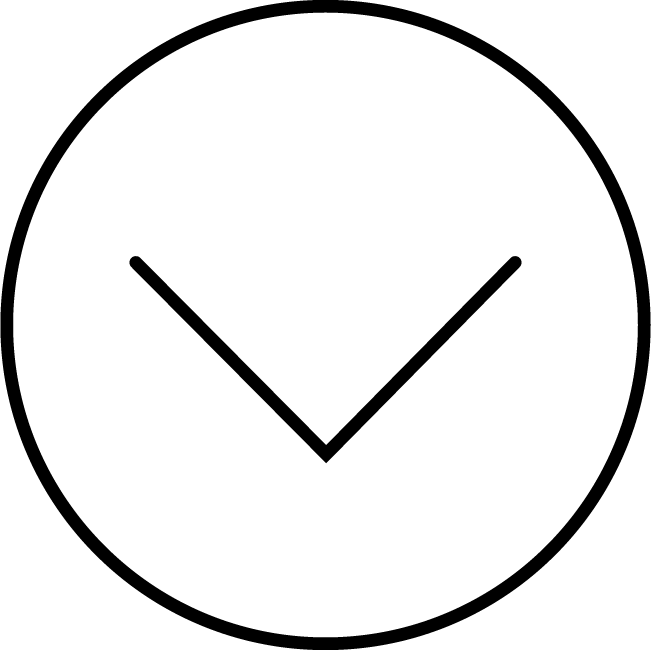
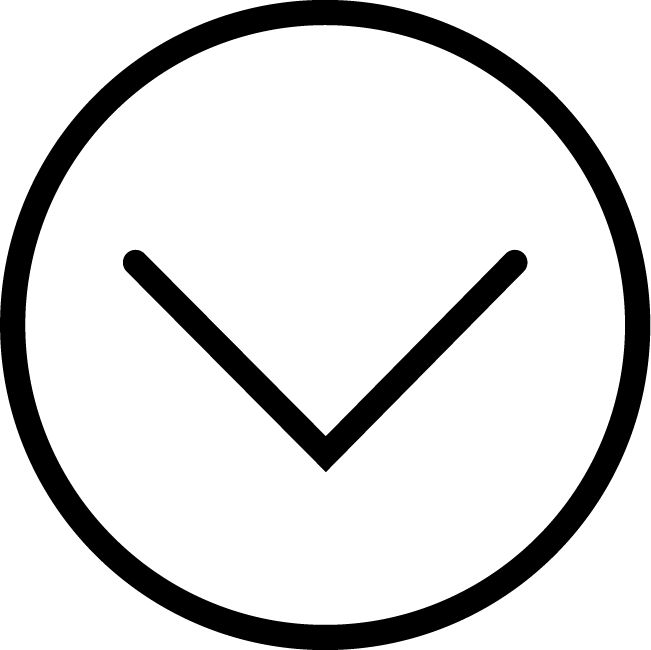
Oppdaterte img-pil-ned

Changed region(s): [[0.0, 0.0, 0.9831, 0.9846], [0.1843, 0.3692, 0.8295, 0.7385]]

diff --git a/index.css b/index.css
@@ -54,7 +54,7 @@ section {
     grid-template-columns: 1fr 1fr;
 }
 
-#landing-image {
+#landing-img {
     background: url(./img-vækka/testbilde-forside.jpeg);
     background-size: cover;
     overflow: hidden;
@@ -63,14 +63,14 @@ section {
     align-items: center;
 }
 
-.hjelpelinjer {
-    color: black;
-    text-align: center;
+.img-pil-ned {
+    width: 10%;
+    filter: invert(100%);
 }
 
-.pil-ned {
-    width: 12px;
-    filter: invert(100%);
+.landing-img-guide {
+    color: black;
+    text-align: center;
 }
 
 

diff --git a/index.html b/index.html
@@ -26,7 +26,7 @@
         <main>
             <section id="landing-img">
                 <article class="landing-pil-ned">
-                    <img src="./img-vækka/rgb-pil-ned.png">
+                    <img class="img-pil-ned" src="./img-vækka/rgb-pil-ned.png">
                 </article>
 
                 <div class="landing-img-guide">
